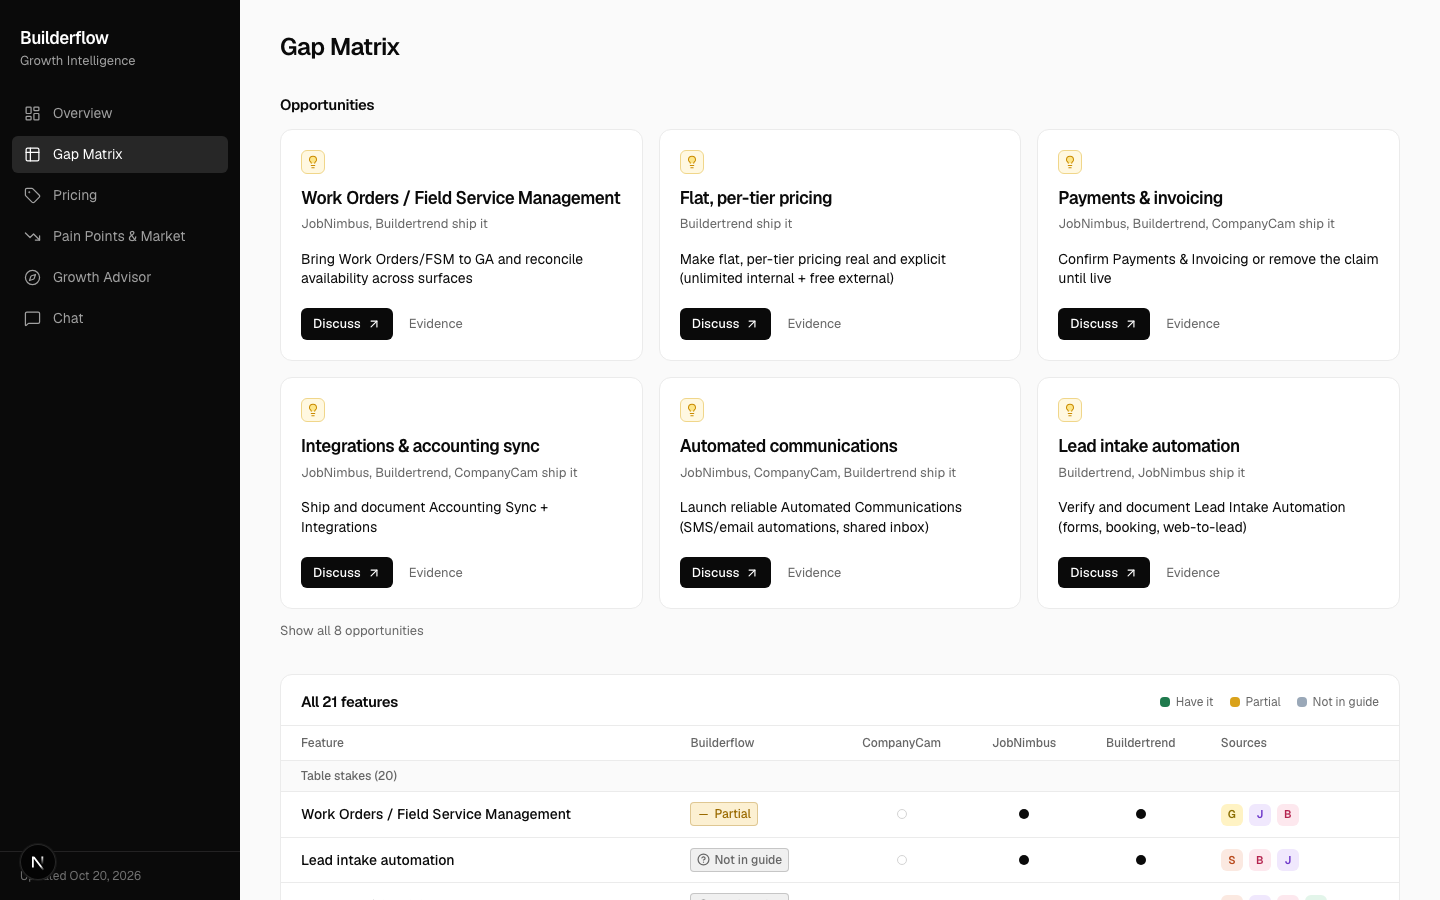
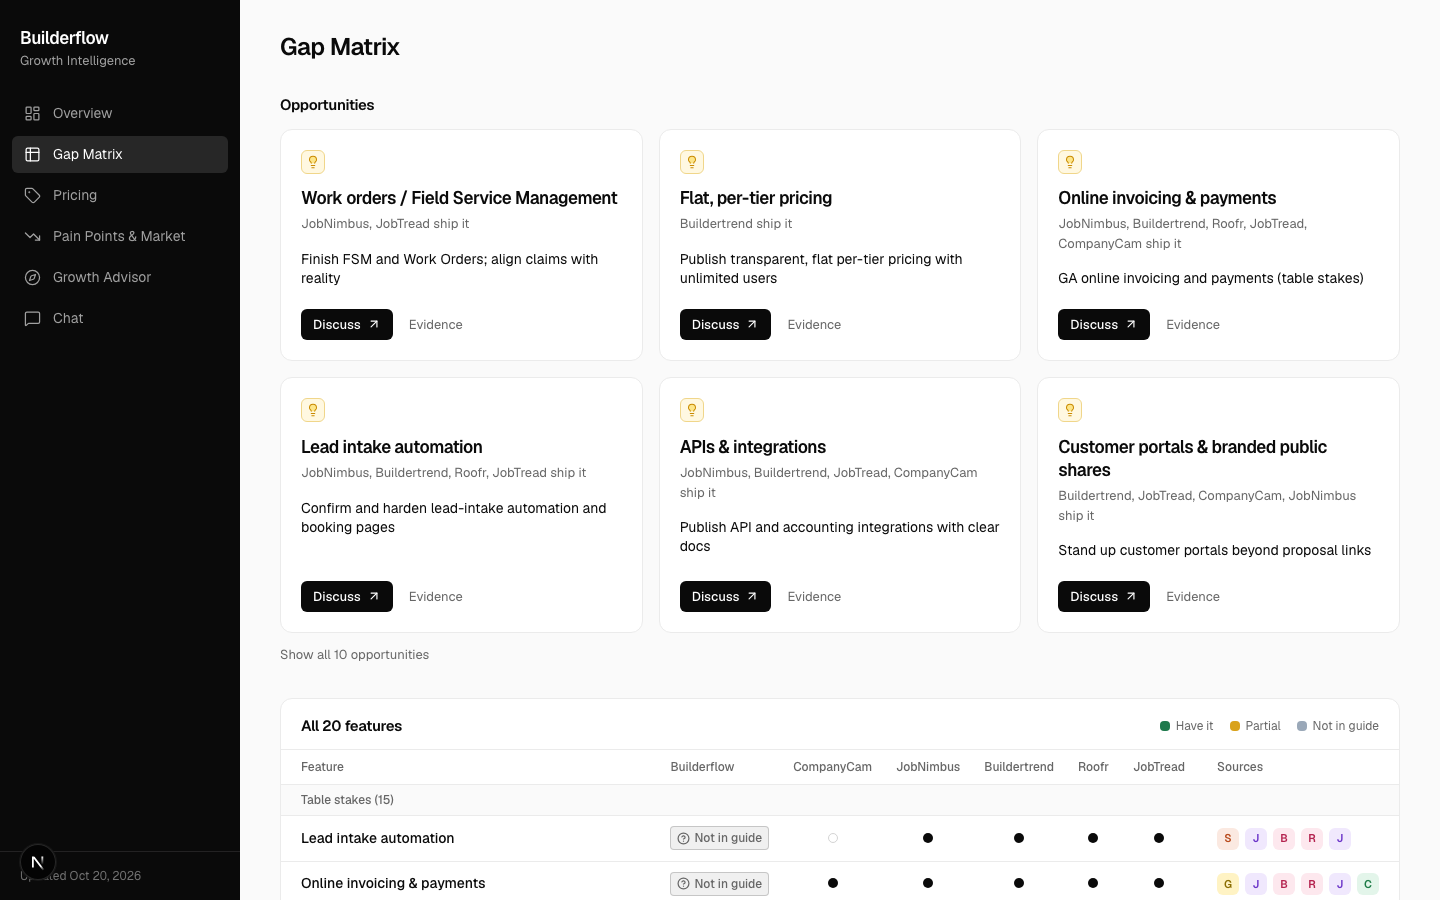
Analyse all five competitors (add Roofr, JobTread + hand-collected research notes); stricter parity rules; data-driven competitor columns; refreshed README and screenshots

diff --git a/frontend/app/gap-matrix/page.tsx b/frontend/app/gap-matrix/page.tsx
@@ -8,7 +8,7 @@ import type { Has } from "@/lib/types";
 
 const RISK: Record<Has, number> = { no: 0, partial: 1, unverified: 2, yes: 3 };
 const HAS_ORDER: Has[] = ["yes", "partial", "no", "unverified"];
-const COMPANIES = ["CompanyCam", "JobNimbus", "Buildertrend"];
+const COMPANIES = bundle.competitors;
 
 export default function GapMatrix() {
   const rows = bundle.gapMatrix;
@@ -59,7 +59,7 @@ export default function GapMatrix() {
               return (
                 <tbody key={tier} className="divide-y divide-rule">
                   <tr className="bg-paper">
-                    <th colSpan={6} className="px-5 py-1.5 text-left text-[12px] font-medium text-text-2">
+                    <th colSpan={COMPANIES.length + 3} className="px-5 py-1.5 text-left text-[12px] font-medium text-text-2">
                       {TIER_LABEL[tier]} ({tierRows.length})
                     </th>
                   </tr>

diff --git a/frontend/app/page.tsx b/frontend/app/page.tsx
@@ -10,7 +10,7 @@ import { getOpportunities, toCard } from "@/lib/opportunities";
 import type { Has } from "@/lib/types";
 
 const HAS_ORDER: Has[] = ["yes", "partial", "no", "unverified"];
-const COMPANIES = ["CompanyCam", "JobNimbus", "Buildertrend"];
+const COMPANIES = bundle.competitors;
 
 export default function Overview() {
   const { gapMatrix, painPoints, recommendations } = bundle;

diff --git a/frontend/lib/types.ts b/frontend/lib/types.ts
@@ -108,6 +108,8 @@ export type Recommendation = {
 export type Bundle = {
   generatedAt: string;
   appSummary: string;
+  /** competitors the pipeline analysed, in data/competitors.yaml order */
+  competitors: string[];
   gapMatrix: GapRow[];
   painPoints: PainPoint[];
   trends: Trend[];

diff --git a/intel/nodes/analyze.py b/intel/nodes/analyze.py
@@ -92,8 +92,8 @@ def _format_profiles(profiles: dict) -> str:
 
 
 GAP_MATRIX_PROMPT = """You are building a feature gap matrix for Builderflow, a smaller
-lead-management/CRM tool for remodelers and contractors, against three competitors
-(CompanyCam, JobNimbus, Buildertrend).
+lead-management/CRM tool for remodelers and contractors, against five competitors
+(CompanyCam, JobNimbus, Buildertrend, Roofr, JobTread).
 
 A raw list of "do they have feature X" is weak on its own -- marketing pages overstate
 parity. So for every row, also classify how much it actually matters:
@@ -104,7 +104,7 @@ parity. So for every row, also classify how much it actually matters:
   a frontier opportunity. Only use this tier if the market trends actually support it, don't
   invent emerging features.
 
-Synthesize ONE canonical feature list across all three competitors' raw feature lists below
+Synthesize ONE canonical feature list across all five competitors' raw feature lists below
 -- merge obvious synonyms (e.g. "Mobile App" / "Technician Mobile App" / "Field app" are the
 same row). Weight the list toward CRM / lead-management / scheduling / estimating
 capabilities, not only inspection/photo-documentation features.
@@ -125,6 +125,19 @@ or smaller slice (for example payment schedules on a contract when the row is on
 payments and invoicing), the guide does not explain this capability: mark it "unverified".
 Never mark a feature "partial" or "no" because a screen is empty or because a feature does not
 appear in the screenshots. Never guess.
+
+competitors_with_it: list a competitor ONLY if its own feature list below names that capability
+or a direct equivalent. A loosely related feature does not count (for example daily logs are not
+a claims inspection wizard, and a supplier integration is not inventory tracking). Parity is
+often overstated on marketing pages, so when unsure leave the competitor out. It is normal for a
+row to have only one to three competitors, and for a specialised row to have none.
+
+Two known cases: (1) Claim Scope is an insurance-claims inspection wizard. No competitor below
+has that; at most credit a competitor whose list names inspection or claims reports (for example
+photo reports), and "daily logs", "forms" or "measurement reports" do not count. (2) Online card
+payments / invoicing: the guide only documents a payment-schedule tool on contracts, not taking
+online payments, so mark that row "unverified" and cite the guide section only as the neighbouring
+feature.
 
 Always include a row for each of Builderflow's own modules, even if no competitor has an
 equivalent: lead intake automation, estimating, work orders / field service management, finance
@@ -173,9 +186,9 @@ def _recompute_tier(count: int, total: int) -> str:
     of trusting the model's per-row tier label, which drifts inconsistent across a long list."""
     if count == 0:
         return "emerging"  # only legitimate when trend-grounded, per the prompt
-    if count == 1:
-        return "differentiator"
-    return "table_stakes"  # majority or all competitors have it
+    if count * 2 >= total:
+        return "table_stakes"  # at least half of the competitors have it
+    return "differentiator"  # only some competitors have it
 
 
 def _load_manual_pricing() -> dict:
@@ -195,7 +208,8 @@ def _pricing_model_gap_row(profiles: dict, manual_pricing: dict) -> GapMatrixEnt
         Citation(
             source="manual", ref="data/competition.txt",
             note="Buildertrend: flat per-tier pricing, unlimited users. CompanyCam: $29-34/mo per extra user "
-                 "above plan bundle. JobNimbus: cost scales with team size/seats.",
+                 "above plan bundle. JobNimbus: cost scales with team size/seats. Roofr: unlimited users on every "
+                 "tier. JobTread: per internal user, free external/field users.",
         ),
         Citation(
             source="website", ref="https://builderflow.app/pricing/",

diff --git a/intel/nodes/collect.py b/intel/nodes/collect.py
@@ -114,7 +114,21 @@ def collect_competitor(company: str, homepage: str) -> list[CollectedPage]:
             print(f"  fetching {company} {kind}: {url}")
             pages.append(fetch_page(browser, company, url))
         browser.close()
+    pages.extend(_research_notes(company))
     return pages
+
+
+def _research_notes(company: str) -> list[CollectedPage]:
+    """Hand-collected research (data/manual/<slug>.md, split out of data/competition.txt) is
+    always added alongside the scraped pages, not only when a site blocks us."""
+    import re
+
+    path = f"data/manual/{re.sub(r'[^a-z0-9]+', '-', company.lower()).strip('-')}.md"
+    try:
+        text = open(path).read()
+    except FileNotFoundError:
+        return []
+    return [CollectedPage(company=company, url=path, fetched_at=_now(), raw_text=text)]
 
 
 BUILDERFLOW_PAGES = [

diff --git a/intel/nodes/growth_advisor.py b/intel/nodes/growth_advisor.py
@@ -27,7 +27,7 @@ OUT_PATH = Path("data/cache/growth_advice.json")
 
 PROMPT_TEMPLATE = """You are Builderflow's growth advisor. Builderflow is a smaller
 lead-management/CRM tool for remodelers and contractors, competing against CompanyCam,
-JobNimbus and Buildertrend. Below is already-structured, already-cited competitive analysis
+JobNimbus, Buildertrend, Roofr and JobTread. Below is already-structured, already-cited competitive analysis
 -- reason over it, don't re-derive it. Every fact below carries a [Cn] citation id; when a
 recommendation relies on a fact, put that id in citation_ids. Do not invent ids and do not
 write out URLs or paths yourself -- just reference the [Cn] ids.

diff --git a/intel/nodes/extract.py b/intel/nodes/extract.py
@@ -16,7 +16,9 @@ below. Only use what's stated on these pages -- don't invent features, prices, o
 positioning that aren't evidenced here.
 
 For every feature, pricing tier, and the positioning/target_customer fields, set the
-citation's source to "website" and ref to the exact URL of the page it came from.
+citation's source to "website" and ref to the exact URL of the page it came from. If the page
+"URL" is a local path starting with data/ (hand-collected research notes), use source "manual"
+and that path as ref instead.
 
 === PAGES ===
 {pages}

diff --git a/intel/nodes/market.py b/intel/nodes/market.py
@@ -71,7 +71,7 @@ def _format_context(results: dict[str, list[dict]]) -> str:
 
 
 PROMPT_TEMPLATE = """You are researching the market around contractor/remodeler lead
-management and CRM software (competitors include CompanyCam, JobNimbus, Buildertrend, and
+management and CRM software (competitors include CompanyCam, JobNimbus, Buildertrend, Roofr, JobTread, and
 similar tools) for Builderflow, a smaller player in this space. Below are raw search result
 snippets grouped by the query that found them.
 

diff --git a/scripts/export_frontend.py b/scripts/export_frontend.py
@@ -274,6 +274,7 @@ def main() -> None:
     bundle = {
         "generatedAt": datetime.now(timezone.utc).isoformat(timespec="seconds"),
         "appSummary": (ROOT / "data" / "app_summary.md").read_text(),
+        "competitors": [c["name"] for c in yaml.safe_load((ROOT / "data" / "competitors.yaml").read_text())],
         "gapMatrix": gap,
         "painPoints": pains,
         "trends": [

diff --git a/README.md b/README.md
@@ -19,8 +19,8 @@ what bigger competitors offer, what contractors complain about, or where the mar
 heading — product decisions are guesswork.
 
 So this tool builds that view: it reads Builderflow's own guide/website/screenshots,
-scrapes and extracts structured profiles from 3 competitors (CompanyCam, JobNimbus,
-Buildertrend), pulls market trends, contractor pain points and dated industry + AI news from
+scrapes and extracts structured profiles from 5 competitors (CompanyCam, JobNimbus,
+Buildertrend, Roofr, JobTread), pulls market trends, contractor pain points and dated industry + AI news from
 live search, and turns all of it into a feature gap matrix, pricing comparison,
 messaging-inconsistency flags, and a prioritized growth-advisor recommendation list — every
 claim backed by a citation back to its source. Plus a chat assistant that brainstorms with you
@@ -37,7 +37,7 @@ evidence, shown as source chips that reveal the real URL, guide section or scree
 
 | | |
 |---|---|
-| **Overview** — opportunities first (each gap is an opportunity), feature coverage, top complaints, quick wins. | **Gap Matrix** — Builderflow vs three competitors, graded by source strength, with an idea card above each gap. |
+| **Overview** — opportunities first (each gap is an opportunity), feature coverage, top complaints, quick wins. | **Gap Matrix** — Builderflow vs five competitors, graded by source strength, with an idea card above each gap. |
 | ![Gap Matrix](docs/screenshots/gap-matrix.png) | ![Pricing](docs/screenshots/pricing.png) |
 | **Pricing** — hand-verified public price ranges for six companies, plus plan tables. | **Pain Points & Market** — complaint themes as an interactive donut, then dated news. |
 | ![Pain Points](docs/screenshots/pain-points.png) | ![News](docs/screenshots/news.png) |
@@ -66,7 +66,7 @@ flowchart TD
         GUIDE[builderflow_guide<br/>source of truth]
         SITE[builderflow.app site pages]
         SHOTS[98 screenshots<br/>46 flows, references only]
-        COMP[3 competitor sites]
+        COMP[5 competitor sites<br/>+ hand-collected research notes]
         TAVILY[Tavily search<br/>trends, pain points, reviews, news]
     end
 
@@ -126,7 +126,7 @@ any guide section. It costs roughly a cent per message on gpt-5-mini.
   and `intel/rag.py`'s chat both use this.
 - **Tiers and theme clusters are computed deterministically, not left to the model.**
   Gap-matrix tiering (`table_stakes` / `differentiator` / `emerging`) is a counting rule —
-  how many of 3 competitors have a feature — so it's recomputed in Python after the LLM call
+  how many of the 5 competitors have a feature — so it's recomputed in Python after the LLM call
   rather than trusted per-row, where it drifted inconsistent across a long list. Pain-point
   themes use a closed `Literal` vocabulary (11 fixed tags) instead of open-ended "reuse a
   tag" instructions, which produced 13 unique one-off tags for 13 pain points the first time.
@@ -230,18 +230,19 @@ of it was tested in a running product.
 
 - **Builderflow**: the user guide, website pages and 98 screenshots across 46 flows, condensed into
   one `app_summary.md` that grounds every downstream node.
-- **Competitors**: CompanyCam, JobNimbus, Buildertrend — homepage, pricing, features, changelog,
-  each cached by URL.
+- **Competitors**: CompanyCam, JobNimbus, Buildertrend, Roofr and JobTread — homepage, pricing,
+  features and changelog scraped and cached by URL, plus hand-collected research notes
+  (`data/manual/<name>.md`, from `data/competition.txt`) added to each profile.
 - **Pricing is hand-verified, not LLM-extracted** — `data/manual/competitor_pricing.yaml` covers
   Builderflow, CompanyCam, JobNimbus, Buildertrend, Roofr and JobTread. Exact prices need to be
   exact, so the Pricing page renders that file directly and the pricing comparison is built from it
   in Python.
-- **Market**: 6 industry trends, 16 themed contractor pain points and 10 review snippets from
+- **Market**: industry trends, 13 themed contractor pain points and review snippets from
   Tavily search, cached by query.
 - **News**: 20 dated stories (10 industry, 10 AI), refreshed on demand with `fetch_news.py`.
-- **Analysis**: 21 gap-matrix rows (13 have it, 2 partial, 6 not in guide), pricing comparisons and
+- **Analysis**: 20 gap-matrix rows (10 have it, 2 partial, 8 not in guide), pricing comparisons and
   messaging inconsistencies.
-- **Growth advice**: 24 recommendations across build / double down / positioning / pricing / quick
+- **Growth advice**: 31 recommendations across build / double down / positioning / pricing / quick
   win, each citation-backed and traceable to the gap row, pain point, pricing row or messaging flag
   behind it.
 

diff --git a/data/manual/buildertrend.md b/data/manual/buildertrend.md
@@ -1,0 +1,18 @@
+# Buildertrend -- research notes (hand-collected, data/competition.txt)
+
+💰 Tiered Pricing Structure (Flat, Unlimited Users)
+
+• Essential (Estimated $399-$499/mo): Includes core project management tools -- such as scheduling, daily logs, mobile time tracking, cloud document storage, a basic customer portal, and lightweight lead management.
+• Advanced (Estimated $699-$799/mo): Adds essential financial control features. It unlocks detailed construction estimating, digital takeoff tools, formal change-order workflows, budget vs. actual cost tracking, and vendor purchase orders.
+• Complete (Estimated $999-$1,100+/mo): The full enterprise tier. It includes advanced dashboards, Request for Information (RFI) tracking, warranty management, and a robust Homeowner Selections module (allowing clients to choose paint colors, fixtures, and finishes online).
+
+🏆 Key Value Proposition (What it Does Best)
+
+• Why it matters: Unlike user-based software (like JobNimbus or JobTread), you are never penalized financially for growing your company.
+• Who it includes: You can grant complete system access to every single internal office worker, field laborer, subcontractor, vendor, and client without your monthly bill changing.
+
+⚠ Hidden Fees & Total Cost of Ownership
+
+• Minimum Commitment: Buildertrend typically requires a 1-year minimum contract term and does not offer a free-trial option to test the platform independently.
+• Mandatory Support Packages: Depending on your revenue volume, quotes frequently bundle a mandatory monthly support/training tier ranging from $100 to $300/month to assist with implementation.
+• Payment Processing: If clients pay invoices online through the Buildertrend portal, processing fees cost 2.99% + $0.30 per credit card transaction, plus a $1.49 system platform fee per payment.

diff --git a/data/manual/jobnimbus.md b/data/manual/jobnimbus.md
@@ -1,0 +1,20 @@
+# JobNimbus -- research notes (hand-collected, data/competition.txt)
+
+💰 Pricing Estimates By Team Size
+
+• Solo Operator: $245 to $300 / month (Base fee + 1 user seat)
+• Team of 5: $325 to $925 / month (Pro tier plan + 5 user seats)
+• Team of 10: $425 to $1,300 / month (Base fee + 10 user seats)
+
+🏆 Key Value Propositions (Where it Beats Competitors)
+
+• Custom Workflows & Boards: Allows highly tailored, drag-and-drop visual pipelines (similar to Trello) for complex multi-stage projects like insurance restoration. Competitors like Jobber restrict users to rigid, basic "Quote-to-Invoice" templates.
+• Supplier Integrations: Features direct digital material ordering inside the CRM with major exterior distributors (e.g., ABC Supply and Beacon). Avoids the need to manually export PDFs and email them to vendors.
+• 14-Day Free Trial: Fully open trial to test software and mobile apps instantly without required sales interaction. Closest competitor AccuLynx completely gates their platform behind a mandatory sales demo.
+• QuickBooks Desktop Sync: Offers a reliable, native two-way sync for legacy QuickBooks Desktop and Server versions. Most modern cloud alternatives only support QuickBooks Online.
+
+⚠ Hidden Fees & Transaction Costs
+
+• Onboarding: No mandatory setup fees, but advanced training or third-party data migration requires a paid professional services agreement.
+• JobNimbus Payments: Credit/debit processing costs 3.2% + $0.29 per transaction. Requires a one-time $20 boarding fee deducted from the first payout. Dispute/chargeback inquiries cost $15.
+• Integrations: Standard property measurement or photo tools (like EagleView, HOVER, or CompanyCam) require separate external subscriptions to sync.
